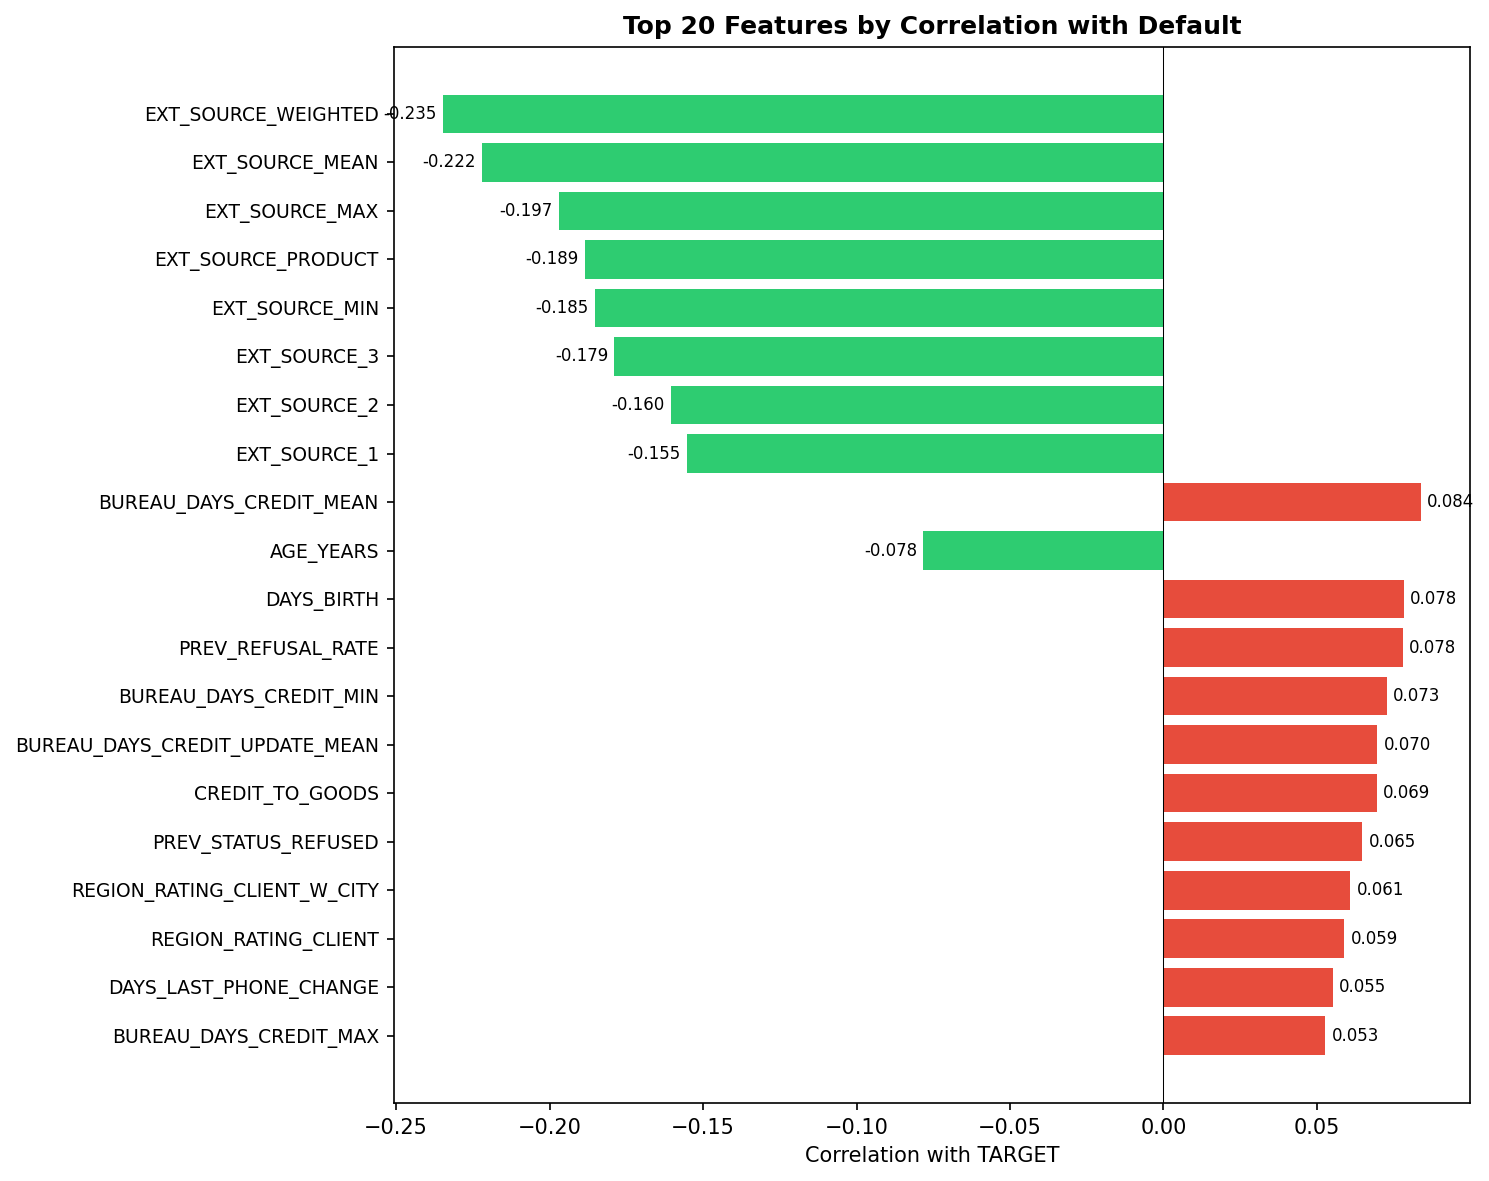
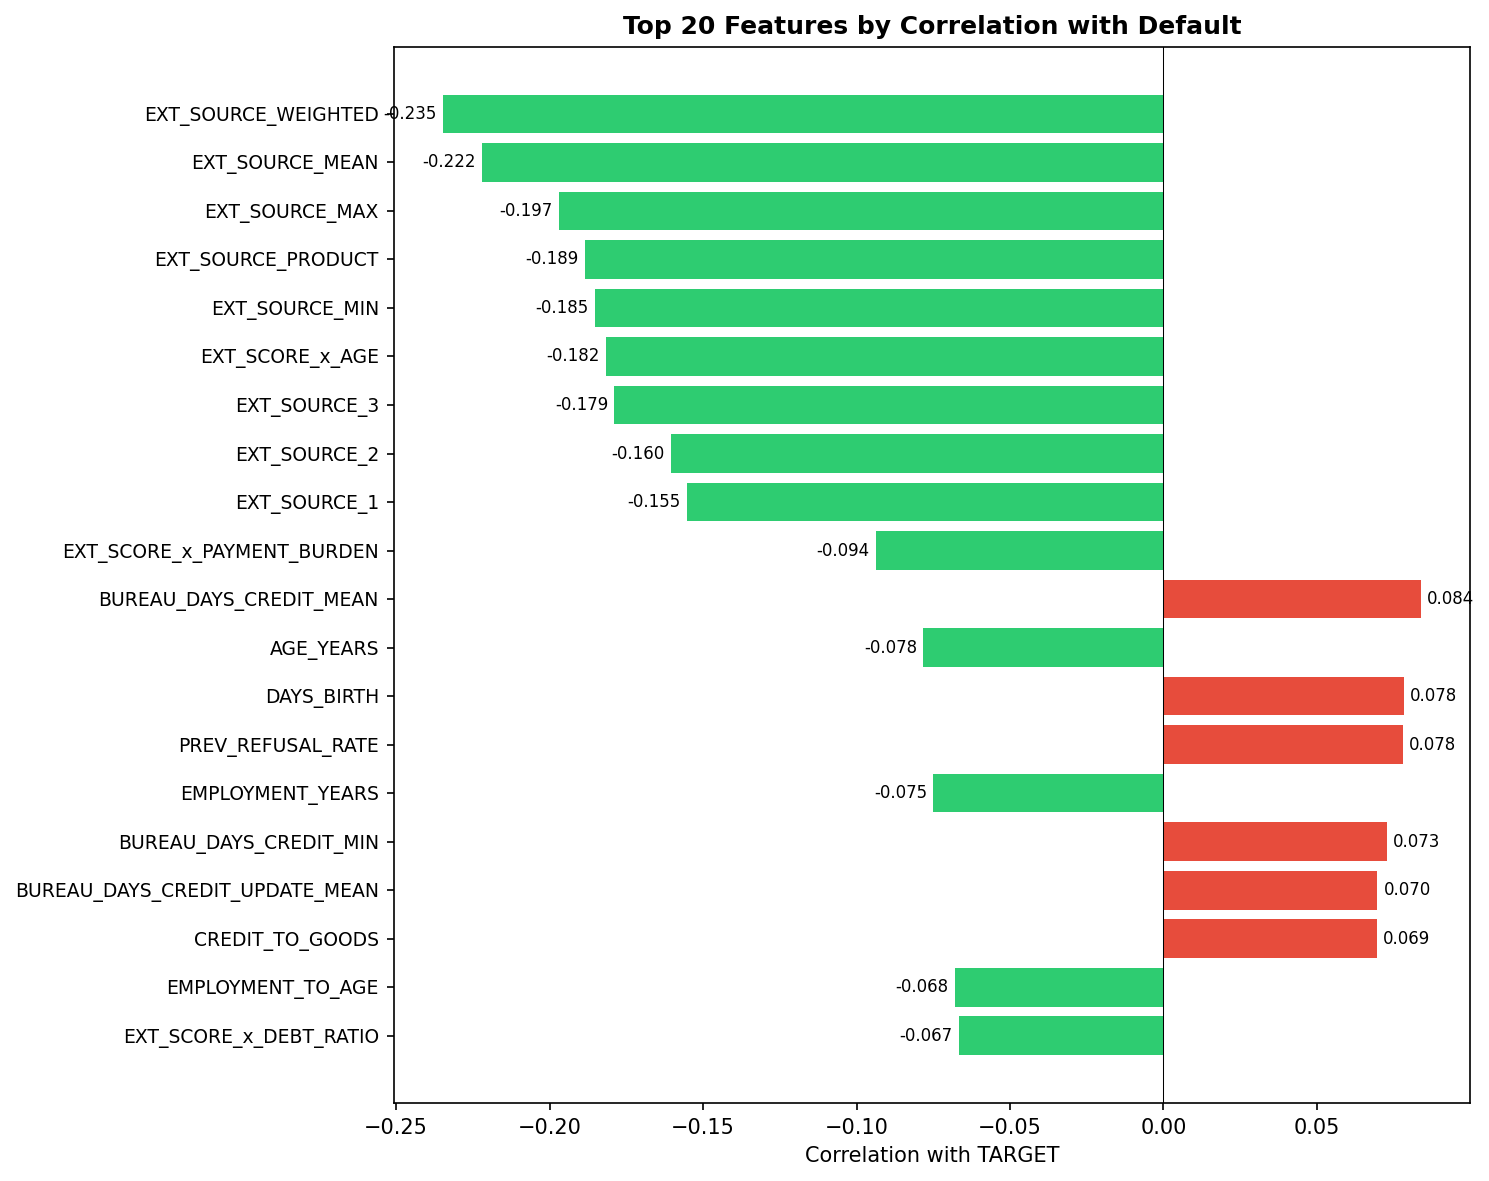
NB02: Add interaction features, history flags, and fix EMPLOYMENT_YEARS consistency
- Add 3 interaction features (EXT_SCORE x PAYMENT_BURDEN, AGE, DEBT_RATIO)
- Add HAS_BUREAU_HISTORY and HAS_PREV_APPLICATION binary flags
- Fix EMPLOYMENT_YEARS: NaN for unemployed (consistent with NB01, XGBoost handles natively)
- Document EXT_SOURCE_WEIGHTED weights derivation (r = -0.155, -0.161, -0.179)
- Add markdown note acknowledging unused data sources (installments, POS, credit_card)
- Update log files: notebooks-progress, technical-decisions, issues-solutions (ISSUE-012)

diff --git a/docs/log_files/notebooks-progress.md b/docs/log_files/notebooks-progress.md
@@ -64,8 +64,8 @@
 
 ## 02_FeatureEng.ipynb
 
-**Date:** 2026-01-25
-**Status:** Completed (36 cells)
+**Date:** 2026-01-25 (updated 2026-03-29)
+**Status:** Completed (38 cells)
 **Location:** `notebooks/02_FeatureEng.ipynb`
 **Objective:** Transform raw data into 200+ engineered features integrating application, bureau, and previous application data.
 
@@ -74,19 +74,22 @@
 | Section | Content |
 |---------|---------|
 | 1. Setup and Data Loading | Load application_train.csv (307,511 x 122) |
-| 2. Application Features | 20 engineered features (ratios, time-based, external scores, documents) |
+| 2. Application Features | 23 engineered features (ratios, time-based, external scores, interactions, documents) |
 | 3. Bureau Features | 41 features from credit bureau (loan counts, credit types, ratios) |
+| Note: Unused Data Sources | Acknowledgment of installments_payments, POS_CASH_balance, credit_card_balance (excluded by scope) |
 | 4. Previous Application Features | 30 features from previous applications (status, contracts, ratios) |
 | 5. Merge All Features | Left joins: application + bureau + previous applications |
+| 5.2b History Flags | HAS_BUREAU_HISTORY, HAS_PREV_APPLICATION binary flags |
 | 6. Feature Selection | Final dataset preparation, missing value handling |
 | 7. Summary | Feature count, save to CSV |
 
-### Features Engineered (91 new features)
+### Features Engineered (96 new features)
 
-**From Application Train (20 features):**
+**From Application Train (23 features):**
 - Ratio Features (6): DEBT_TO_INCOME, PAYMENT_BURDEN, CREDIT_TO_GOODS, ANNUITY_TO_CREDIT, INCOME_PER_PERSON, INCOME_TO_CREDIT
 - Time-Based Features (6): AGE_YEARS, EMPLOYMENT_YEARS, FLAG_UNEMPLOYED, REGISTRATION_YEARS, ID_PUBLISH_YEARS, EMPLOYMENT_TO_AGE
 - External Source Features (6): EXT_SOURCE_MEAN, EXT_SOURCE_WEIGHTED, EXT_SOURCE_PRODUCT, EXT_SOURCE_MIN, EXT_SOURCE_MAX, EXT_SOURCE_MISSING_COUNT
+- Interaction Features (3): EXT_SCORE_x_PAYMENT_BURDEN, EXT_SCORE_x_AGE, EXT_SCORE_x_DEBT_RATIO
 - Document Features (2): DOCUMENTS_PROVIDED_COUNT, DOCUMENTS_PROVIDED_RATIO
 
 **From Bureau Data (41 features):**
@@ -100,17 +103,24 @@
 - Contract Type Features (4): By type (cash, consumer, revolving)
 - Derived Features (2): Credit-to-application ratio, average credit per app
 
+**History Flags (2 features):**
+- HAS_BUREAU_HISTORY: Distinguishes "no bureau records" from "bureau records with zero values"
+- HAS_PREV_APPLICATION: Distinguishes "no previous applications" from "previous applications with zero values"
+
 ### Key Outputs
-- `data/processed/features_train.csv` - 307,511 rows x 213 columns (363.2 MB)
-- `data/processed/feature_names.csv` - List of 211 feature names
+- `data/processed/features_train.csv` - 307,511 rows x 218 columns
+- `data/processed/feature_names.csv` - List of 216 feature names
 - `reports/feature_correlations.png` - Top 20 features correlated with target
 
 ### Key Findings
-- Final feature count: **213 columns** (122 original + 91 engineered)
+- Final feature count: **218 columns** (122 original + 96 engineered)
 - **99.4%** of applicants have bureau data (305,811 / 307,511)
 - External source scores remain the most predictive features across all transformations
-- Bureau features filled with 0 for applicants without credit history
+- Interaction features (EXT_SOURCE x financial ratios) add cross-domain signals
+- Bureau features filled with 0 for applicants without credit history; HAS_BUREAU_HISTORY flag preserves the distinction
+- EMPLOYMENT_YEARS set to NaN for unemployed/retired (consistent with NB01); signal captured by FLAG_UNEMPLOYED
 - All 307,511 observations preserved through merges
+- Unused data sources (installments_payments, POS_CASH_balance, credit_card_balance) documented as future iteration candidates
 
 ---
 

diff --git a/docs/log_files/technical-decisions.md b/docs/log_files/technical-decisions.md
@@ -86,28 +86,34 @@ Document key technical decisions, rationale, and alternatives considered during 
 **Date:** 2026-01-25
 **Status:** Implemented
 **Context:** The raw application_train.csv has 122 columns, but credit risk prediction benefits significantly from enrichment with external credit history and previous application patterns.
-**Decision:** Engineer 91 new features from three data sources:
-- 20 features from application data (ratios, time-based, external scores, documents)
+**Decision:** Engineer 96 new features from three data sources:
+- 23 features from application data (ratios, time-based, external scores, interactions, documents)
 - 41 features from bureau data (loan counts, credit types, overdue ratios)
 - 30 features from previous applications (approval rates, contract types, credit ratios)
+- 2 history flags (HAS_BUREAU_HISTORY, HAS_PREV_APPLICATION)
 **Rationale:**
 - **Ratio features** (DEBT_TO_INCOME, PAYMENT_BURDEN) are more informative than raw amounts -- they normalize for income and loan size differences
 - **EXT_SOURCE combinations** (mean, weighted, product, min, max) capture multi-bureau signal better than individual scores
+- **Interaction features** (EXT_SOURCE x PAYMENT_BURDEN, x AGE, x DEBT_RATIO) combine cross-domain signals that neither source captures alone
 - **Bureau history** provides credit behavior context (active loans, overdue ratios, debt-to-credit)
 - **Previous application patterns** reveal relationship history with the lender (approval rate, refusal rate)
 - **FLAG_UNEMPLOYED** captures the DAYS_EMPLOYED anomaly as a binary feature
-- Final feature count (211) provides rich signal for XGBoost without excessive dimensionality
+- **History flags** distinguish "no bureau/previous history" from "history with zero values" -- critical for AI agent narratives
+- **EXT_SOURCE_WEIGHTED** weights (0.2/0.4/0.4) derived from EDA correlations: r = -0.155, -0.161, -0.179
+- Final feature count (216) provides rich signal for XGBoost without excessive dimensionality
 **Alternatives Considered:**
 - Application features only (122 columns): Misses bureau and historical signal
 - All 434 raw columns without engineering: High dimensionality, redundancy, no domain insight
 - Automated feature engineering (Featuretools, tsfresh): Less domain control, harder to explain to regulators
-- Include installments_payments and credit_card_balance: Added complexity for marginal gains (deferred)
+- Include installments_payments and credit_card_balance: Added complexity for marginal gains (deferred and documented)
 **Consequences:**
-- Feature count increases from 122 to 213 (including SK_ID_CURR and TARGET)
-- `features_train.csv` is 363.2 MB (large but manageable)
+- Feature count increases from 122 to 218 (including SK_ID_CURR and TARGET)
+- `features_train.csv` output (large but manageable)
 - 99.4% of applicants have bureau data (good coverage)
-- Bureau/previous features filled with 0 for applicants without history (valid assumption)
+- Bureau/previous features filled with 0 for applicants without history; HAS_BUREAU_HISTORY/HAS_PREV_APPLICATION flags preserve the distinction
+- EMPLOYMENT_YEARS set to NaN for unemployed/retired (consistent with NB01 EDA; signal captured by FLAG_UNEMPLOYED)
 - Division-by-zero handled: ratio features produce NaN when denominator is zero (XGBoost handles natively)
+- Unused data sources (installments_payments, POS_CASH_balance, credit_card_balance) documented as future iteration candidates
 **Related:** `notebooks/02_FeatureEng.ipynb`
 
 ---

diff --git a/docs/log_files/issues-solutions.md b/docs/log_files/issues-solutions.md
@@ -166,3 +166,14 @@ In Notebook 02 (Feature Engineering), a binary flag `FLAG_UNEMPLOYED` was create
 **Prevention:** When using LIME for comparison with other methods, always implement a feature name extraction step. Consider using `lime_exp.as_map()` as an alternative that returns feature indices instead of rule strings.
 
 ---
+
+### [ISSUE-012] EMPLOYMENT_YEARS Inconsistency Between NB01 and NB02
+**Date:** 2026-03-29
+**Status:** Resolved
+**Severity:** Low
+**Problem:** Notebook 01 (EDA) set `EMPLOYMENT_YEARS` to `NaN` for the DAYS_EMPLOYED = 365243 sentinel (unemployed/retired), but Notebook 02 (Feature Engineering) set it to `0`. This inconsistency could surface during an interview review.
+**Root Cause:** The two notebooks were developed at different times. NB01 treated unemployed as "unknown employment duration" (NaN), while NB02 treated it as "zero years of employment" (0). Both are defensible, but the discrepancy means the EDA analysis and feature engineering do not align.
+**Solution:** Changed NB02 to use `np.nan` (matching NB01). XGBoost handles NaN natively by learning optimal split directions, so the signal is preserved. The `FLAG_UNEMPLOYED` binary feature (created on the next line) explicitly captures the unemployed/retired signal.
+**Prevention:** When converting EDA findings into feature engineering, verify that the handling logic matches. Document sentinel value treatment in a single location and reference it from both notebooks.
+
+---
